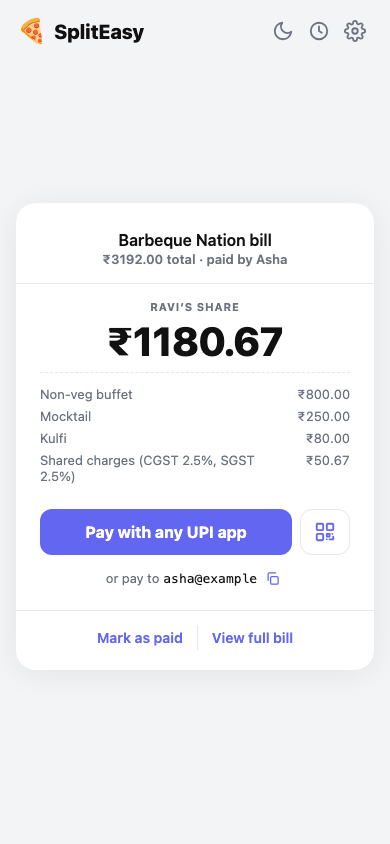
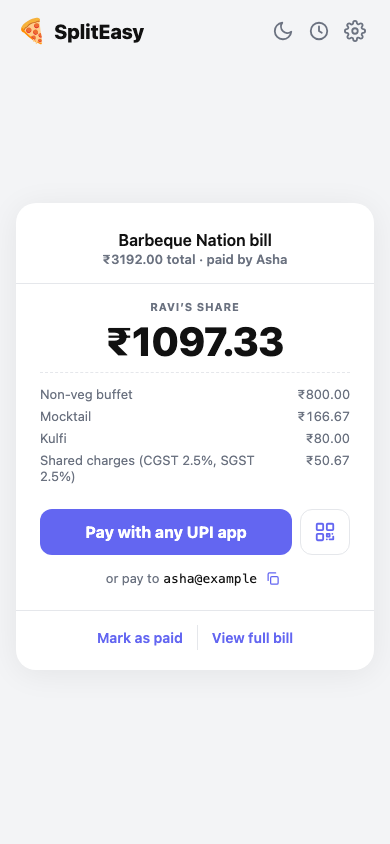
README: explain split by quantity; screenshots match the new split

Changed region(s): [[0.3692, 0.3697, 0.7385, 0.4313], [0.2769, 0.4005, 0.3385, 0.4313], [0.3385, 0.3697, 0.3692, 0.4005]]

diff --git a/README.md b/README.md
@@ -68,11 +68,12 @@ Long-press a row to reorder it, or drag an item into Shared Charges if the scann
 
 ### 2. Split it item by item
 
-<img src="docs/screenshots/split.png" alt="Tap who had each item" width="240" align="right" />
+<img src="docs/screenshots/split.png" alt="Mocktail split by quantity: Ravi had 1, Meera had 2" width="240" align="right" />
 
 Add the people at the table (your regulars are one tap away) and tap who had each item.
 
-- **Shared dishes** are split equally, or unevenly when someone had two portions.
+- **Shared dishes are split equally** among the people on them, by default.
+- **Split by quantity** when people had different amounts of the same item. Open the item and set how many each person had. For example, 3 mocktails for ₹500: Ravi had 1 and Meera had 2, so Ravi pays ₹166.67 and Meera pays ₹333.33. One tap on "Split equally again" undoes it.
 - **Taxes and service charge** are shared equally, or in proportion to what each person ordered.
 - **One tap** puts everyone on every item, so you only remove the exceptions.
 
